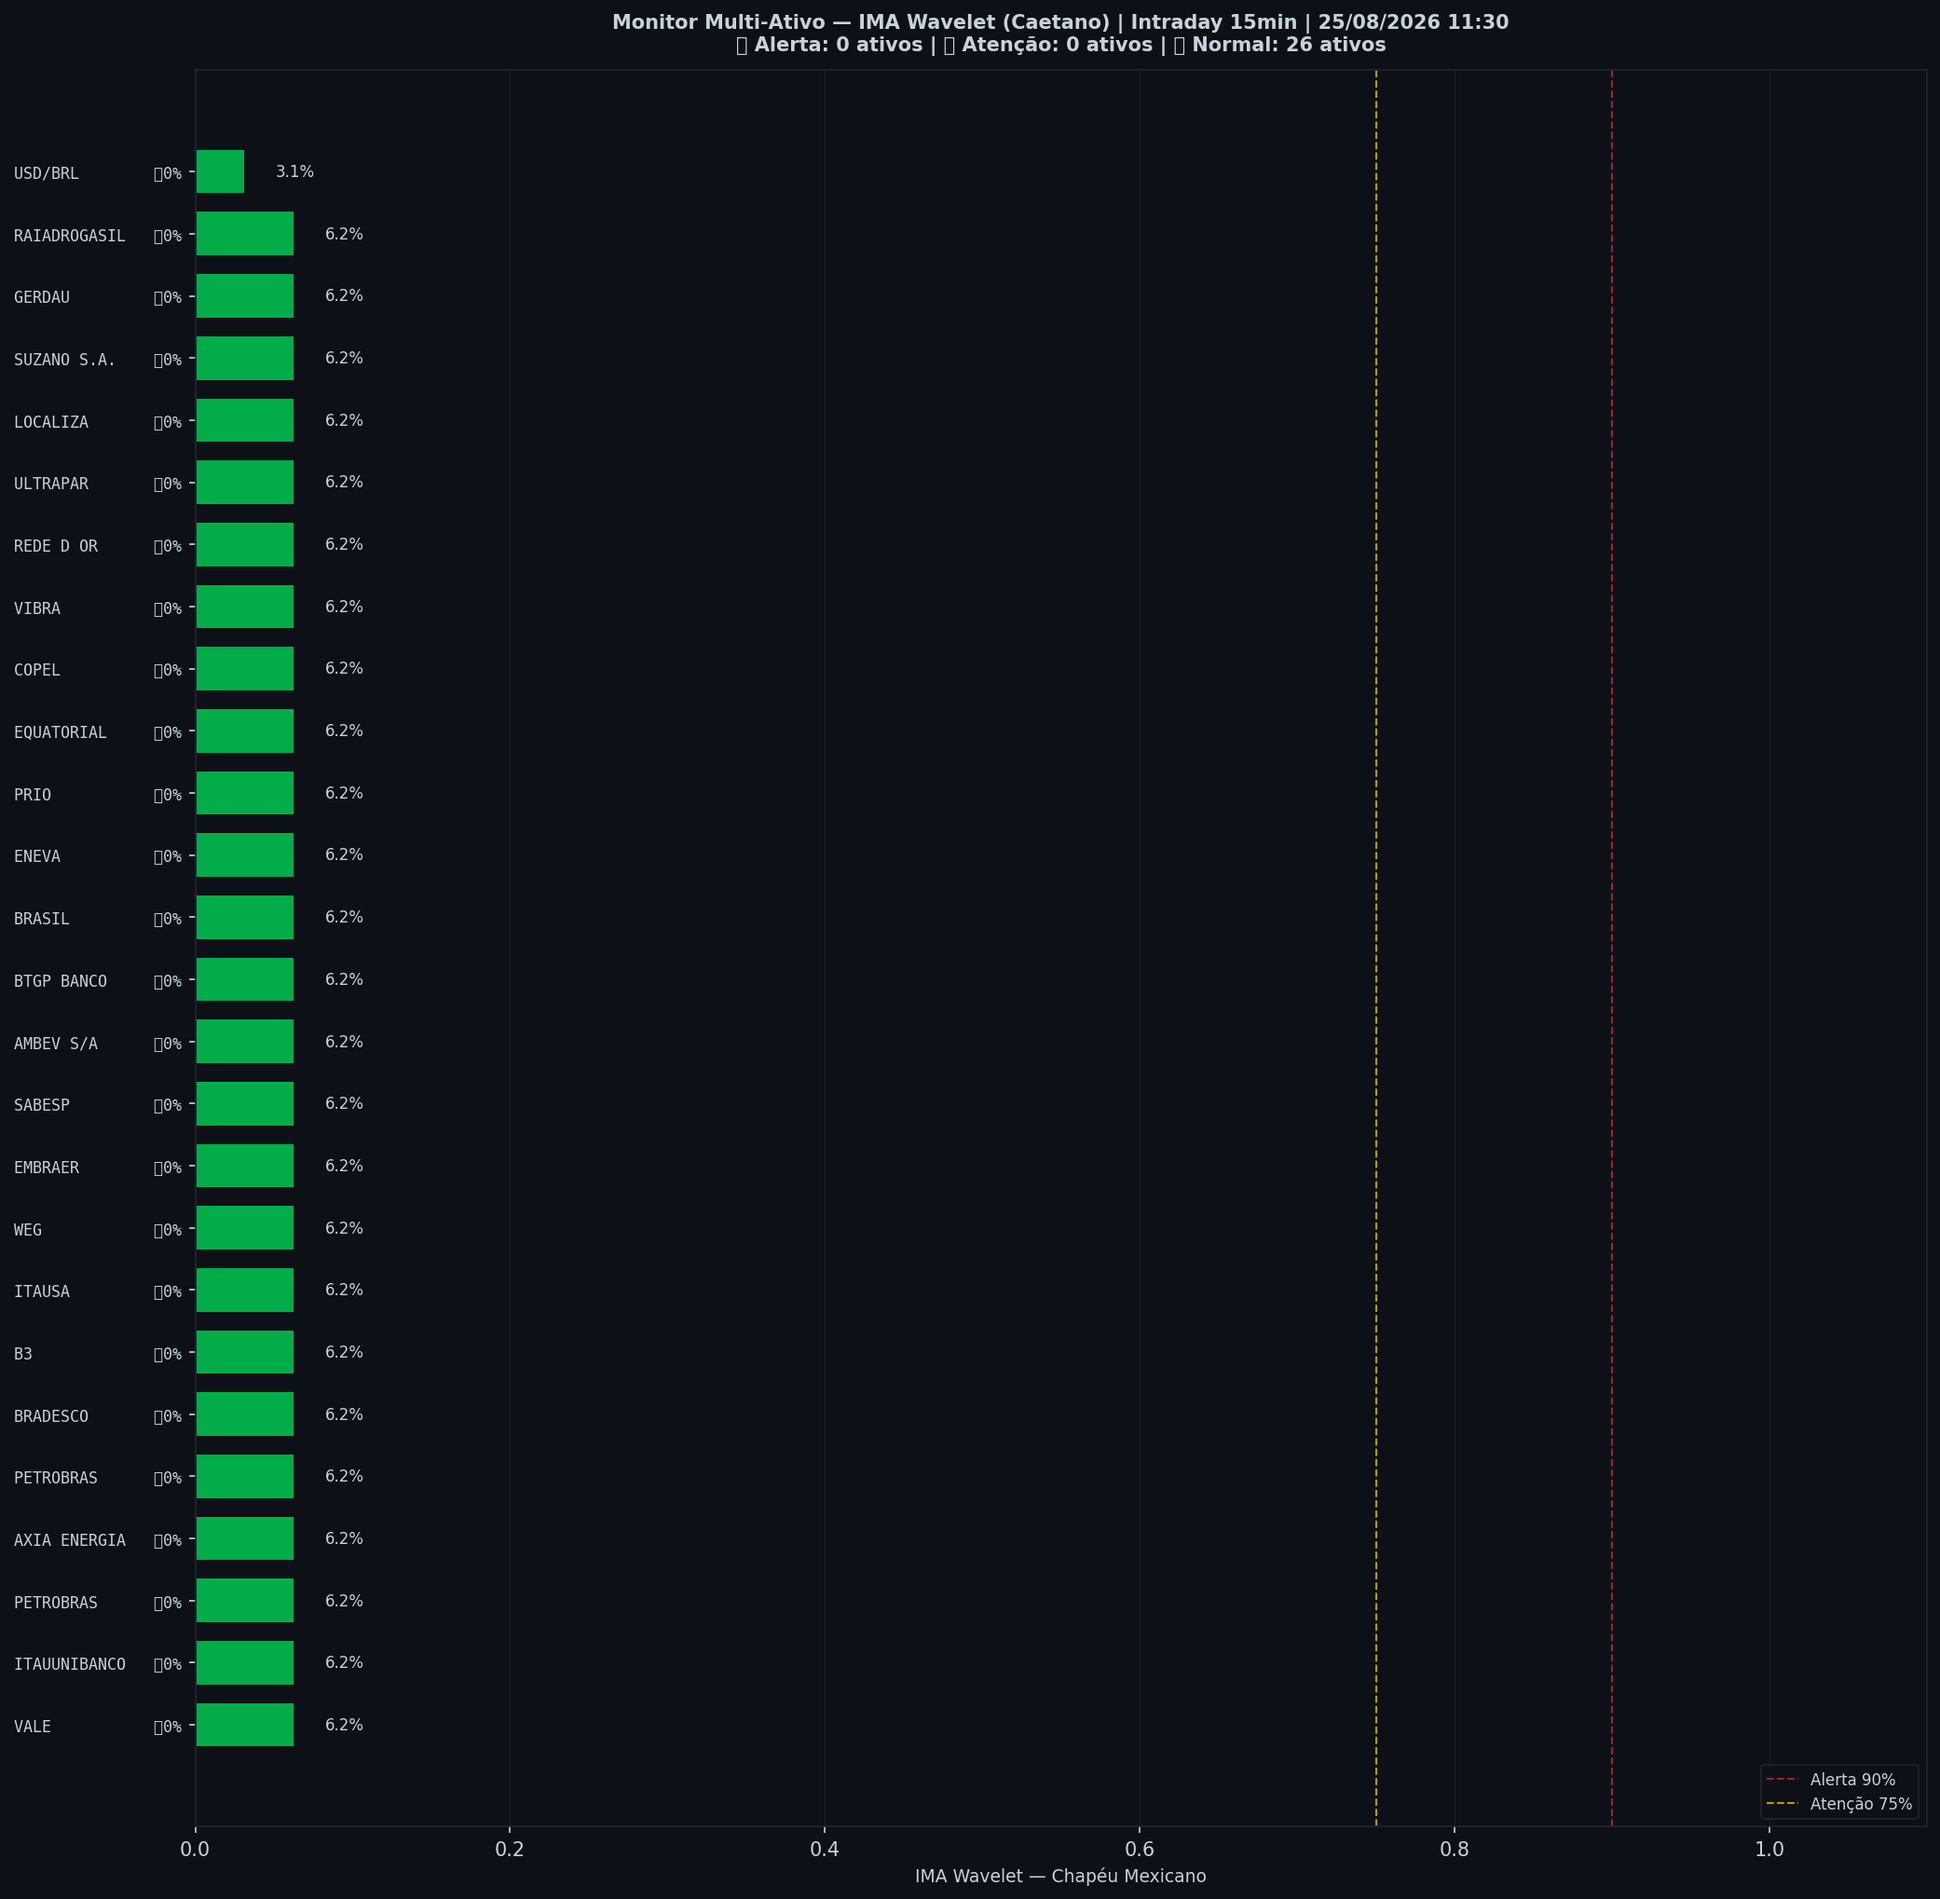
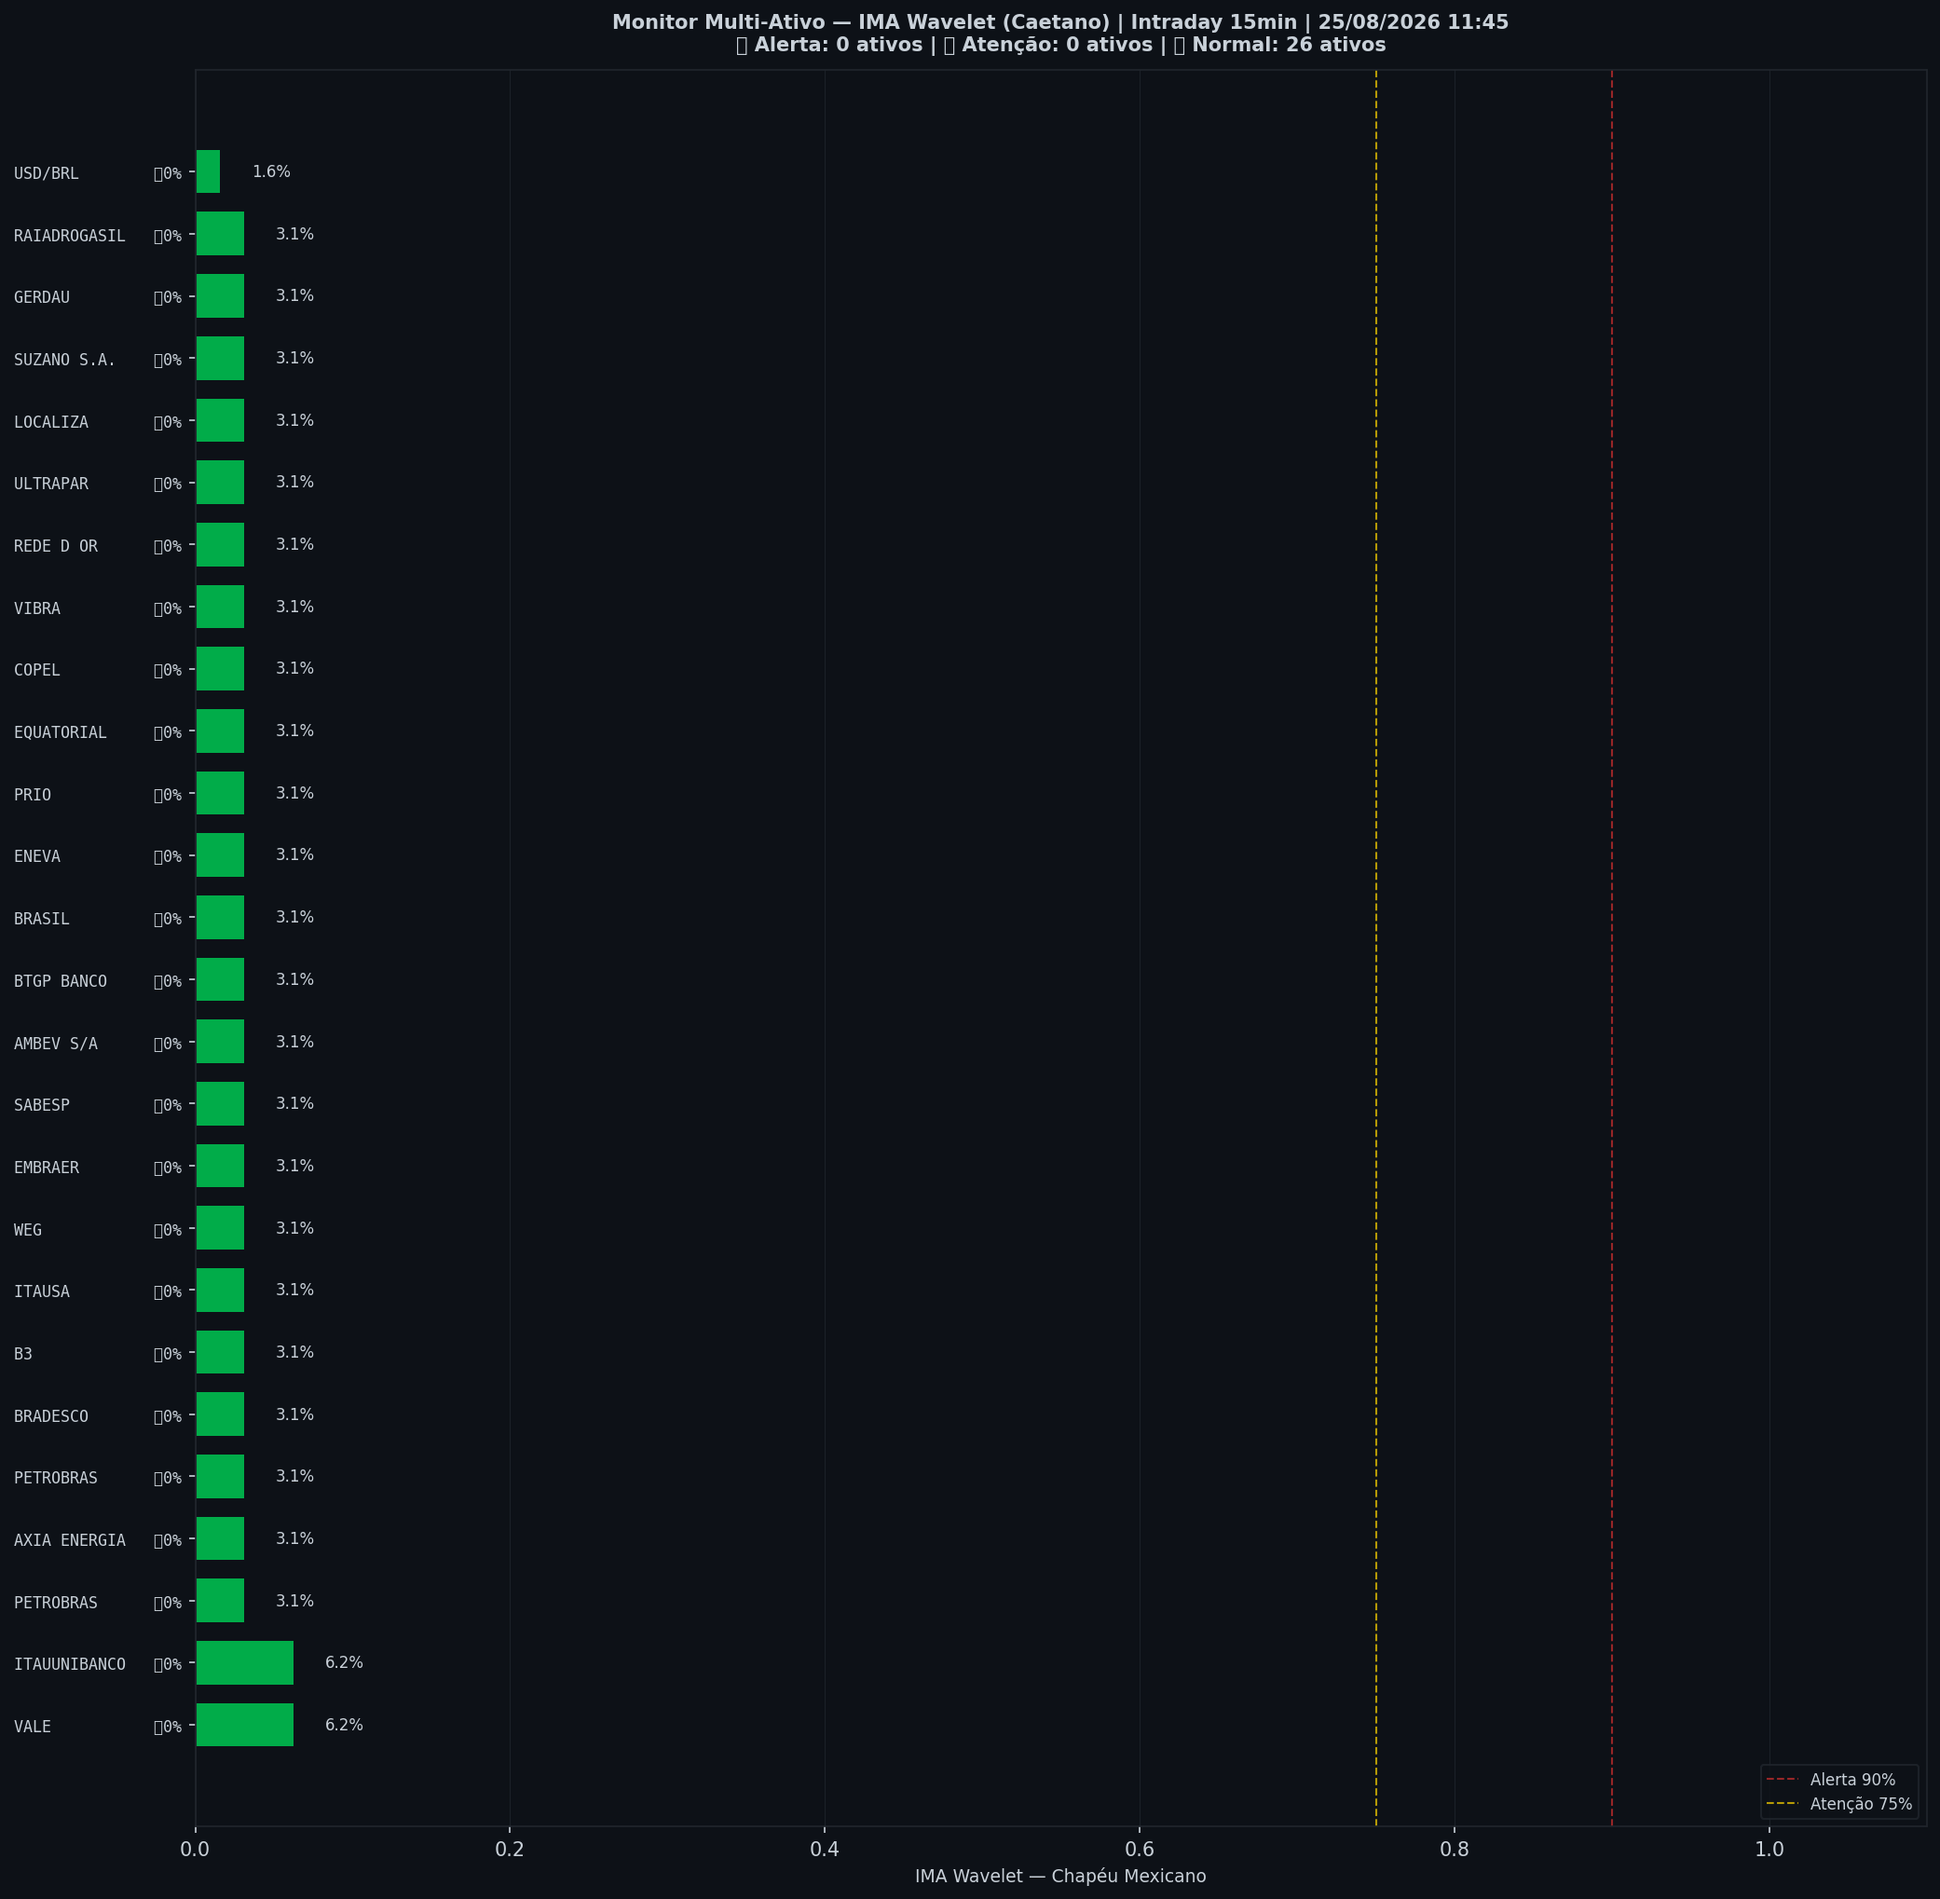
🤖 Auto: Sinal 25/08/2026 11:45

Changed region(s): [[0.0937, 0.0618, 0.1561, 0.8656]]

diff --git a/content/intraday/2026-08-25.md b/content/intraday/2026-08-25.md
@@ -1,5 +1,5 @@
 ---
-title: "🟢 Intraday 25/08/2026 10:45 BRT — VERDE"
+title: "🟢 Intraday 25/08/2026 11:00 BRT — VERDE"
 date: 2026-08-25
 tags: [intraday]
 ---
@@ -12,9 +12,9 @@ tags: [intraday]
 | Indicador | Valor |
 |---|---|
 | 🔴 ζ Crash — severidade da queda em curso | **1%** |
-| 🔵 ζ Entrada — estrutura de fundo | 4% |
+| 🔵 ζ Entrada — estrutura de fundo | 9% |
 | 🫧 LPPL DS-Confidence | 0% |
-| 📊 Ibovespa | 171.420 pts |
+| 📊 Ibovespa | 171.771 pts |
 
 ![Gráfico do sinal](../graficos/sinal_intraday.png)
 
@@ -22,6 +22,7 @@ tags: [intraday]
 
 | Data | Zona | Risco | IMA Crash | Entrada | LPPL |
 |---|---|---|---|---|---|
+| 2026-08-25 11:00 | 🟢 VERDE | **1%** | 1% | 9% | 0% |
 | 2026-08-25 10:45 | 🟢 VERDE | **1%** | 1% | 4% | 0% |
 | 2026-08-25 10:30 | 🟢 VERDE | **1%** | 1% | 2% | 0% |
 | 2026-08-25 10:15 | 🟢 VERDE | **0%** | 0% | 1% | 0% |
@@ -51,7 +52,6 @@ tags: [intraday]
 | 2026-08-24 11:15 | 🟡 AMARELO | **54%** | 54% | 2% | 0% |
 | 2026-08-24 11:00 | 🟡 AMARELO | **52%** | 52% | 5% | 0% |
 | 2026-08-24 10:45 | 🟡 AMARELO | **49%** | 49% | 9% | 0% |
-| 2026-08-24 10:30 | 🟡 AMARELO | **47%** | 47% | 11% | 0% |
 
 ## Monitor Multi-Ativo
 
@@ -61,34 +61,34 @@ tags: [intraday]
 |---|---|---|---|---|
 | 🟢 | **VALE** | Mineração | 6.2% | 0.0% |
 | 🟢 | **ITAUUNIBANCO** | Financeiro | 6.2% | 0.0% |
-| 🟢 | **PETROBRAS** | Petróleo | 6.2% | 0.0% |
-| 🟢 | **AXIA ENERGIA** | Energia | 6.2% | 0.0% |
-| 🟢 | **PETROBRAS** | Petróleo | 6.2% | 0.0% |
-| 🟢 | **BRADESCO** | Financeiro | 6.2% | 0.0% |
-| 🟢 | **B3** | Financeiro | 6.2% | 0.0% |
-| 🟢 | **ITAUSA** | Financeiro | 6.2% | 0.0% |
-| 🟢 | **WEG** | Industrial | 6.2% | 0.0% |
-| 🟢 | **EMBRAER** | Outros | 6.2% | 0.0% |
-| 🟢 | **SABESP** | Saneamento | 6.2% | 0.0% |
-| 🟢 | **AMBEV S/A** | Consumo | 6.2% | 0.0% |
-| 🟢 | **BTGP BANCO** | Financeiro | 6.2% | 0.0% |
-| 🟢 | **BRASIL** | Financeiro | 6.2% | 0.0% |
-| 🟢 | **ENEVA** | Energia | 6.2% | 0.0% |
-| 🟢 | **PRIO** | Petróleo | 6.2% | 0.0% |
-| 🟢 | **EQUATORIAL** | Energia | 6.2% | 0.0% |
-| 🟢 | **COPEL** | Energia | 6.2% | 0.0% |
-| 🟢 | **VIBRA** | Energia | 6.2% | 0.0% |
-| 🟢 | **REDE D OR** | Saúde | 6.2% | 0.0% |
-| 🟢 | **ULTRAPAR** | Outros | 6.2% | 0.0% |
-| 🟢 | **LOCALIZA** | Aluguel | 6.2% | 0.0% |
-| 🟢 | **SUZANO S.A.** | Papel/Celulose | 6.2% | 0.0% |
-| 🟢 | **GERDAU** | Siderurgia | 6.2% | 0.0% |
-| 🟢 | **RAIADROGASIL** | Outros | 6.2% | 0.0% |
-| 🟢 | **USD/BRL** | Câmbio | 3.1% | 0.0% |
+| 🟢 | **PETROBRAS** | Petróleo | 3.1% | 0.0% |
+| 🟢 | **AXIA ENERGIA** | Energia | 3.1% | 0.0% |
+| 🟢 | **PETROBRAS** | Petróleo | 3.1% | 0.0% |
+| 🟢 | **BRADESCO** | Financeiro | 3.1% | 0.0% |
+| 🟢 | **B3** | Financeiro | 3.1% | 0.0% |
+| 🟢 | **ITAUSA** | Financeiro | 3.1% | 0.0% |
+| 🟢 | **WEG** | Industrial | 3.1% | 0.0% |
+| 🟢 | **EMBRAER** | Outros | 3.1% | 0.0% |
+| 🟢 | **SABESP** | Saneamento | 3.1% | 0.0% |
+| 🟢 | **AMBEV S/A** | Consumo | 3.1% | 0.0% |
+| 🟢 | **BTGP BANCO** | Financeiro | 3.1% | 0.0% |
+| 🟢 | **BRASIL** | Financeiro | 3.1% | 0.0% |
+| 🟢 | **ENEVA** | Energia | 3.1% | 0.0% |
+| 🟢 | **PRIO** | Petróleo | 3.1% | 0.0% |
+| 🟢 | **EQUATORIAL** | Energia | 3.1% | 0.0% |
+| 🟢 | **COPEL** | Energia | 3.1% | 0.0% |
+| 🟢 | **VIBRA** | Energia | 3.1% | 0.0% |
+| 🟢 | **REDE D OR** | Saúde | 3.1% | 0.0% |
+| 🟢 | **ULTRAPAR** | Outros | 3.1% | 0.0% |
+| 🟢 | **LOCALIZA** | Aluguel | 3.1% | 0.0% |
+| 🟢 | **SUZANO S.A.** | Papel/Celulose | 3.1% | 0.0% |
+| 🟢 | **GERDAU** | Siderurgia | 3.1% | 0.0% |
+| 🟢 | **RAIADROGASIL** | Outros | 3.1% | 0.0% |
+| 🟢 | **USD/BRL** | Câmbio | 1.6% | 0.0% |
 
 ![Monitor multi-ativo](../graficos/multi_intraday.png)
 
-*Página atualizada em 25/08/2026 11:30 BRT (leitura da barra de 2026-08-25 10:45 BRT).*
+*Página atualizada em 25/08/2026 11:45 BRT (leitura da barra de 2026-08-25 11:00 BRT).*
 
 > [!info]- Como interpretar (clique para expandir)
 > - **ζ Crash**: fração dos coeficientes wavelet acima do corte (Caetano & Yoneyama 2009). Escala absoluta: ζ=0,90 = 90% dos coeficientes anômalos — historicamente, quedas com ζ≥0,90 foram mais fundas e mais longas. **Mede a severidade do movimento em curso, não prevê o início da queda.**

diff --git a/content/index.md b/content/index.md
@@ -8,7 +8,7 @@ tags: [home]
 
 Monitoramento diário e intraday do Ibovespa — **IMA Wavelet** (Prof. Marco Antonio Leonel Caetano, ITA/INSPER) + **LPPL DS-Confidence** (Prof. Didier Sornette, ETH-Zurich).
 
-*Última atualização: 25/08/2026 11:30 BRT · ^BVSP · Intraday 15min · v4*
+*Última atualização: 25/08/2026 11:45 BRT · ^BVSP · Intraday 15min · v4*
 
 > [!success] 🟢 **VERDE** — Risco 1% · ＝ +0 p.p. vs leitura anterior
 > `░░░░░░░░░░░░░░░░░░░░`
@@ -18,9 +18,9 @@ Monitoramento diário e intraday do Ibovespa — **IMA Wavelet** (Prof. Marco An
 | Indicador | Valor |
 |---|---|
 | 🔴 ζ Crash — severidade da queda em curso | **1%** |
-| 🔵 ζ Entrada — estrutura de fundo | 4% |
+| 🔵 ζ Entrada — estrutura de fundo | 9% |
 | 🫧 LPPL DS-Confidence | 0% |
-| 📊 Ibovespa | 171.420 pts |
+| 📊 Ibovespa | 171.771 pts |
 
 **Multi-ativo:** 0% em tensão (0🔴 0🟡 de 26 ativos)
 

diff --git a/content/historico.md b/content/historico.md
@@ -7,6 +7,7 @@ tags: [historico]
 
 | Data | Modo | Zona | Risco | IMA | LPPL |
 |---|---|---|---|---|---|
+| 2026-08-25 11:00 | intraday | 🟢 VERDE | 1% | 1% | 0% |
 | 2026-08-25 10:45 | intraday | 🟢 VERDE | 1% | 1% | 0% |
 | 2026-08-25 10:30 | intraday | 🟢 VERDE | 1% | 1% | 0% |
 | 2026-08-25 10:15 | intraday | 🟢 VERDE | 0% | 0% | 0% |
